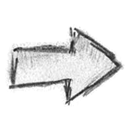
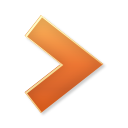
Added category browsing
You can now browse by category. Categories are hard coded. Guess you can
scrape them from somewhere, but didn't bother. Paging is also supported
when browsing categories. Added a fantastic orange right arrow as icon.
Eirik, feel free to replace the icon ;-)

diff --git a/Contents/Code/__init__.py b/Contents/Code/__init__.py
@@ -93,6 +93,12 @@ def TVMenu():
         title=unicode(L('letters_title')), 
         summary=unicode(L('letters_description')), 
         thumb=R('nrk-nett-tv.png')))
+        
+    oc.add(DirectoryObject(
+        key = Callback(Categories),
+        title=unicode(L('categories_title')), 
+        summary=unicode(L('categories_description')), 
+        thumb=R('nrk-nett-tv.png')))
     
     oc.add(SearchDirectoryObject(identifier="com.plexapp.plugins.nrktv", title=unicode(L("search_title")), prompt=unicode(L("search_prompt")))) 
     
@@ -180,6 +186,24 @@ def Letters():
          oc.add(emptyItem())
     return oc
 
+@route(pluginRoute('/letter/{x}'))
+def Letter(letterUrl):
+    import data
+    return View(*data.GetByLetter(letterUrl))
+    
+@route(pluginRoute('/categories'))
+def Categories():
+    import data
+    return View(*data.GetCategories())
+
+@route(pluginRoute('/category/{x}'))
+def Category(url, index = 0):
+    import data
+    splitUrl = url.split("/")
+    category = splitUrl[len(splitUrl)-1]
+    #Log.Debug("CATEGORY: " + str(category))
+    return View(*data.GetByCategory(category, index))
+
 @route(pluginRoute('/series/{x}'))
 def Series(url): 
     import data
@@ -190,17 +214,14 @@ def Episodes(url):
     import data
     return View(*data.GetEpisodes(url))
 
-@route(pluginRoute('/letter/{x}'))
-def Letter(letterUrl):
-    import data
-    return View(*data.GetByLetter(letterUrl))
-    
-    
-def View(titles, urls, thumbs=repeat(''), fanarts=repeat(''), summaries=repeat('')):
+def View(titles, urls, thumbs=repeat(''), fanarts=repeat(''), summaries=repeat(''), index=0, category = ''):
+    #Log.Debug("No of Titles: " + str(len(titles)))
     oc = ObjectContainer()
     total = len(titles)
     if total == 0:
         oc.add(emptyItem())
+        return oc
+        
     for title, url, thumb, fanart, summary in zip(titles, urls, thumbs, fanarts, summaries):
         #Log.Debug("NRK - url: " + url)
         summary = summary() if callable(summary) else summary
@@ -210,15 +231,23 @@ def View(titles, urls, thumbs=repeat(''), fanarts=repeat(''), summaries=repeat('
         if '/Episodes/' in url:
             #Log.Debug("Episodes: " + url)
             oc.add(DirectoryObject(
-            key = Callback(Episodes, url = url), title = title, thumb = thumb, art = fanart))
+            key = Callback(Episodes, url = url), title = unicode(title), thumb = thumb, art = fanart))
         elif '/program/' in url or re.search( r'/\w{4}\d{8}/', url, re.M|re.I): #koid24002713 Playable:
             #Log.Debug("Program: " + url)
-            oc.add(VideoClipObject(url = url, title = title, thumb = thumb, art = fanart, summary = summary))
+            oc.add(VideoClipObject(url = url, title = unicode(title), thumb = thumb, art = fanart, summary = summary))
+        elif '/programmer/' in url:
+            #Log.Debug("Program: " + url)
+            oc.add(DirectoryObject(
+            key = Callback(Category, url = url, index = index), title = unicode(title), thumb = R('nrk-nett-tv.png'), art = fanart))
         else:
             #Log.Debug("Series: " + url)
             oc.add(DirectoryObject(
-            key = Callback(Series, url = url), title = title, thumb = thumb, art = fanart))
-        
+            key = Callback(Series, url = url), title = unicode(title), thumb = thumb, art = fanart))
+    
+    if index > 0: #Add paging object
+        oc.add(DirectoryObject(
+            key = Callback(Category, url = BASE_URL + '/programmer/%s' % category, index = index), title = unicode(L("paging_next")), thumb = R('arrow-right.png'), art = fanart))
+    
     return oc
     
 def ValidatePrefs():

diff --git a/Contents/Code/data.py b/Contents/Code/data.py
@@ -18,11 +18,13 @@ import httplib, urllib
 PROGRAM_URL = Regex('\/program\/([^\/]+)')
 PROGRAM_IMAGE_BASE_URL = 'http://nrk.eu01.aws.af.cm/f/%s'
 PROGRAM_LETTER_BASE_URL = BASE_URL + '/programmer/%s'
+PROGRAM_CATEGORY_BASE_URL = BASE_URL + '/programmer/%s'
+PROGRAM_CATEGORY_LETTER_BASE_URL = PROGRAM_CATEGORY_BASE_URL + '/%s'
 JSON_URL_RECENT = BASE_URL + '/listobjects/recentlysent.json/page/0/100'
 JSON_URL_RECENT_SENT_BY_CATEGORY = BASE_URL + '/listobjects/recentlysentbycategory/%s.json/page/0'
 JSON_URL_POPULAR_WEEK = BASE_URL + '/listobjects/mostpopular/Week.json/page/0/100'
 JSON_URL_POPULAR_MONTH = BASE_URL + '/listobjects/mostpopular/Month.json/page/0/100'
-JSON_URL_CATEGORY = BASE_URL + '/listobjects/indexelements/%s/page/0'
+JSON_URL_CATEGORY = BASE_URL + '/listobjects/indexelements/%s/page/%s'
 
 def GetRecommended():
     start_page = HTML.ElementFromURL(BASE_URL)
@@ -46,6 +48,17 @@ def GetRecommended():
 def GetByLetter(letterUrl):
     #Log.Debug("LETTER URL: " + letterUrl)
     return ProgramList(PROGRAM_LETTER_BASE_URL % letterUrl)
+
+def GetCategories():
+  titles = [ "Barn", "Dokumentar og fakta", "Filmer og serier", "Helse, forbruker og livsstil",
+    "Kultur og underholdning", "Nyheter", "Samisk", "Sport", "Tegnspråk" ]
+  urls = [ PROGRAM_CATEGORY_BASE_URL % "barn", PROGRAM_CATEGORY_BASE_URL % "dokumentar-og-fakta", PROGRAM_CATEGORY_BASE_URL % "filmer-og-serier", PROGRAM_CATEGORY_BASE_URL % "helse-forbruker-og-livsstil",
+    PROGRAM_CATEGORY_BASE_URL % "kultur-og-underholdning", PROGRAM_CATEGORY_BASE_URL % "nyheter", PROGRAM_CATEGORY_BASE_URL % "samisk", PROGRAM_CATEGORY_BASE_URL % "sport", PROGRAM_CATEGORY_BASE_URL % "tegnspraak" ]
+  
+  return titles, urls
+
+def GetByCategory(category, index):
+  return JSONList(JSON_URL_CATEGORY % (category, index))
 
 def GetMostRecent():
     return JSONList(JSON_URL_RECENT)

diff --git a/Contents/Code/util.py b/Contents/Code/util.py
@@ -41,15 +41,40 @@ def emptyItem():
             thumb='')
             
 def JSONList(url):
-    elems = JSON.ObjectFromURL(url)['Data']
+    if '/indexelements/' in url: #Get index
+        splitUrl = url.split('/')
+        index = int(splitUrl[len(splitUrl)-1])
+        category = splitUrl[len(splitUrl)-3]
+        
+    titles = []
+    urls = []
+    thumbs = []
+    fanarts = []
+    summaries = []
 
-    titles = [ e['Title'] for e in elems ]
-    urls = [ BASE_URL + e['Url'] for e in elems ]
-    thumbs = [ e['Images'][0]['ImageUrl'] for e in elems ]
-    fanarts = [ FanartURL(e['Url']) for e in elems ]
-    summaries = [ GetSummary(e['Url']) for e in elems ]
-    return titles, urls, thumbs, fanarts, summaries
-
+    try:
+        elems = JSON.ObjectFromURL(url)['Data']
+    
+        if elems['characters']:
+            for char in elems['characters']:
+                for e in char['elements']:
+                    #Log("Elems: " + str(e))
+                    titles.append(e['Title'])
+                    urls.append(BASE_URL + e['Url'])
+                    thumbs.append(e['Images'][0]['ImageUrl'])
+                    fanarts.append(FanartURL(e['Url']))
+                    summaries.append(e['Title'])
+        else:
+            titles = [ e['Title'] for e in elems ]
+            urls = [ BASE_URL + e['Url'] for e in elems ]
+            thumbs = [ e['Images'][0]['ImageUrl'] for e in elems ]
+            fanarts = [ FanartURL(e['Url']) for e in elems ]
+            summaries = [ GetSummary(e['Url']) for e in elems ]
+    except:
+        Log.Error("Error calling: " + url)
+    
+    return titles, urls, thumbs, fanarts, summaries, index+1, category
+        
 def ProgramList(url):    
     httpRequest = HTTP.Request(url = url, headers = {'X-Requested-With':'XMLHttpRequest'})
     #Log.Debug(httpRequest.content)
